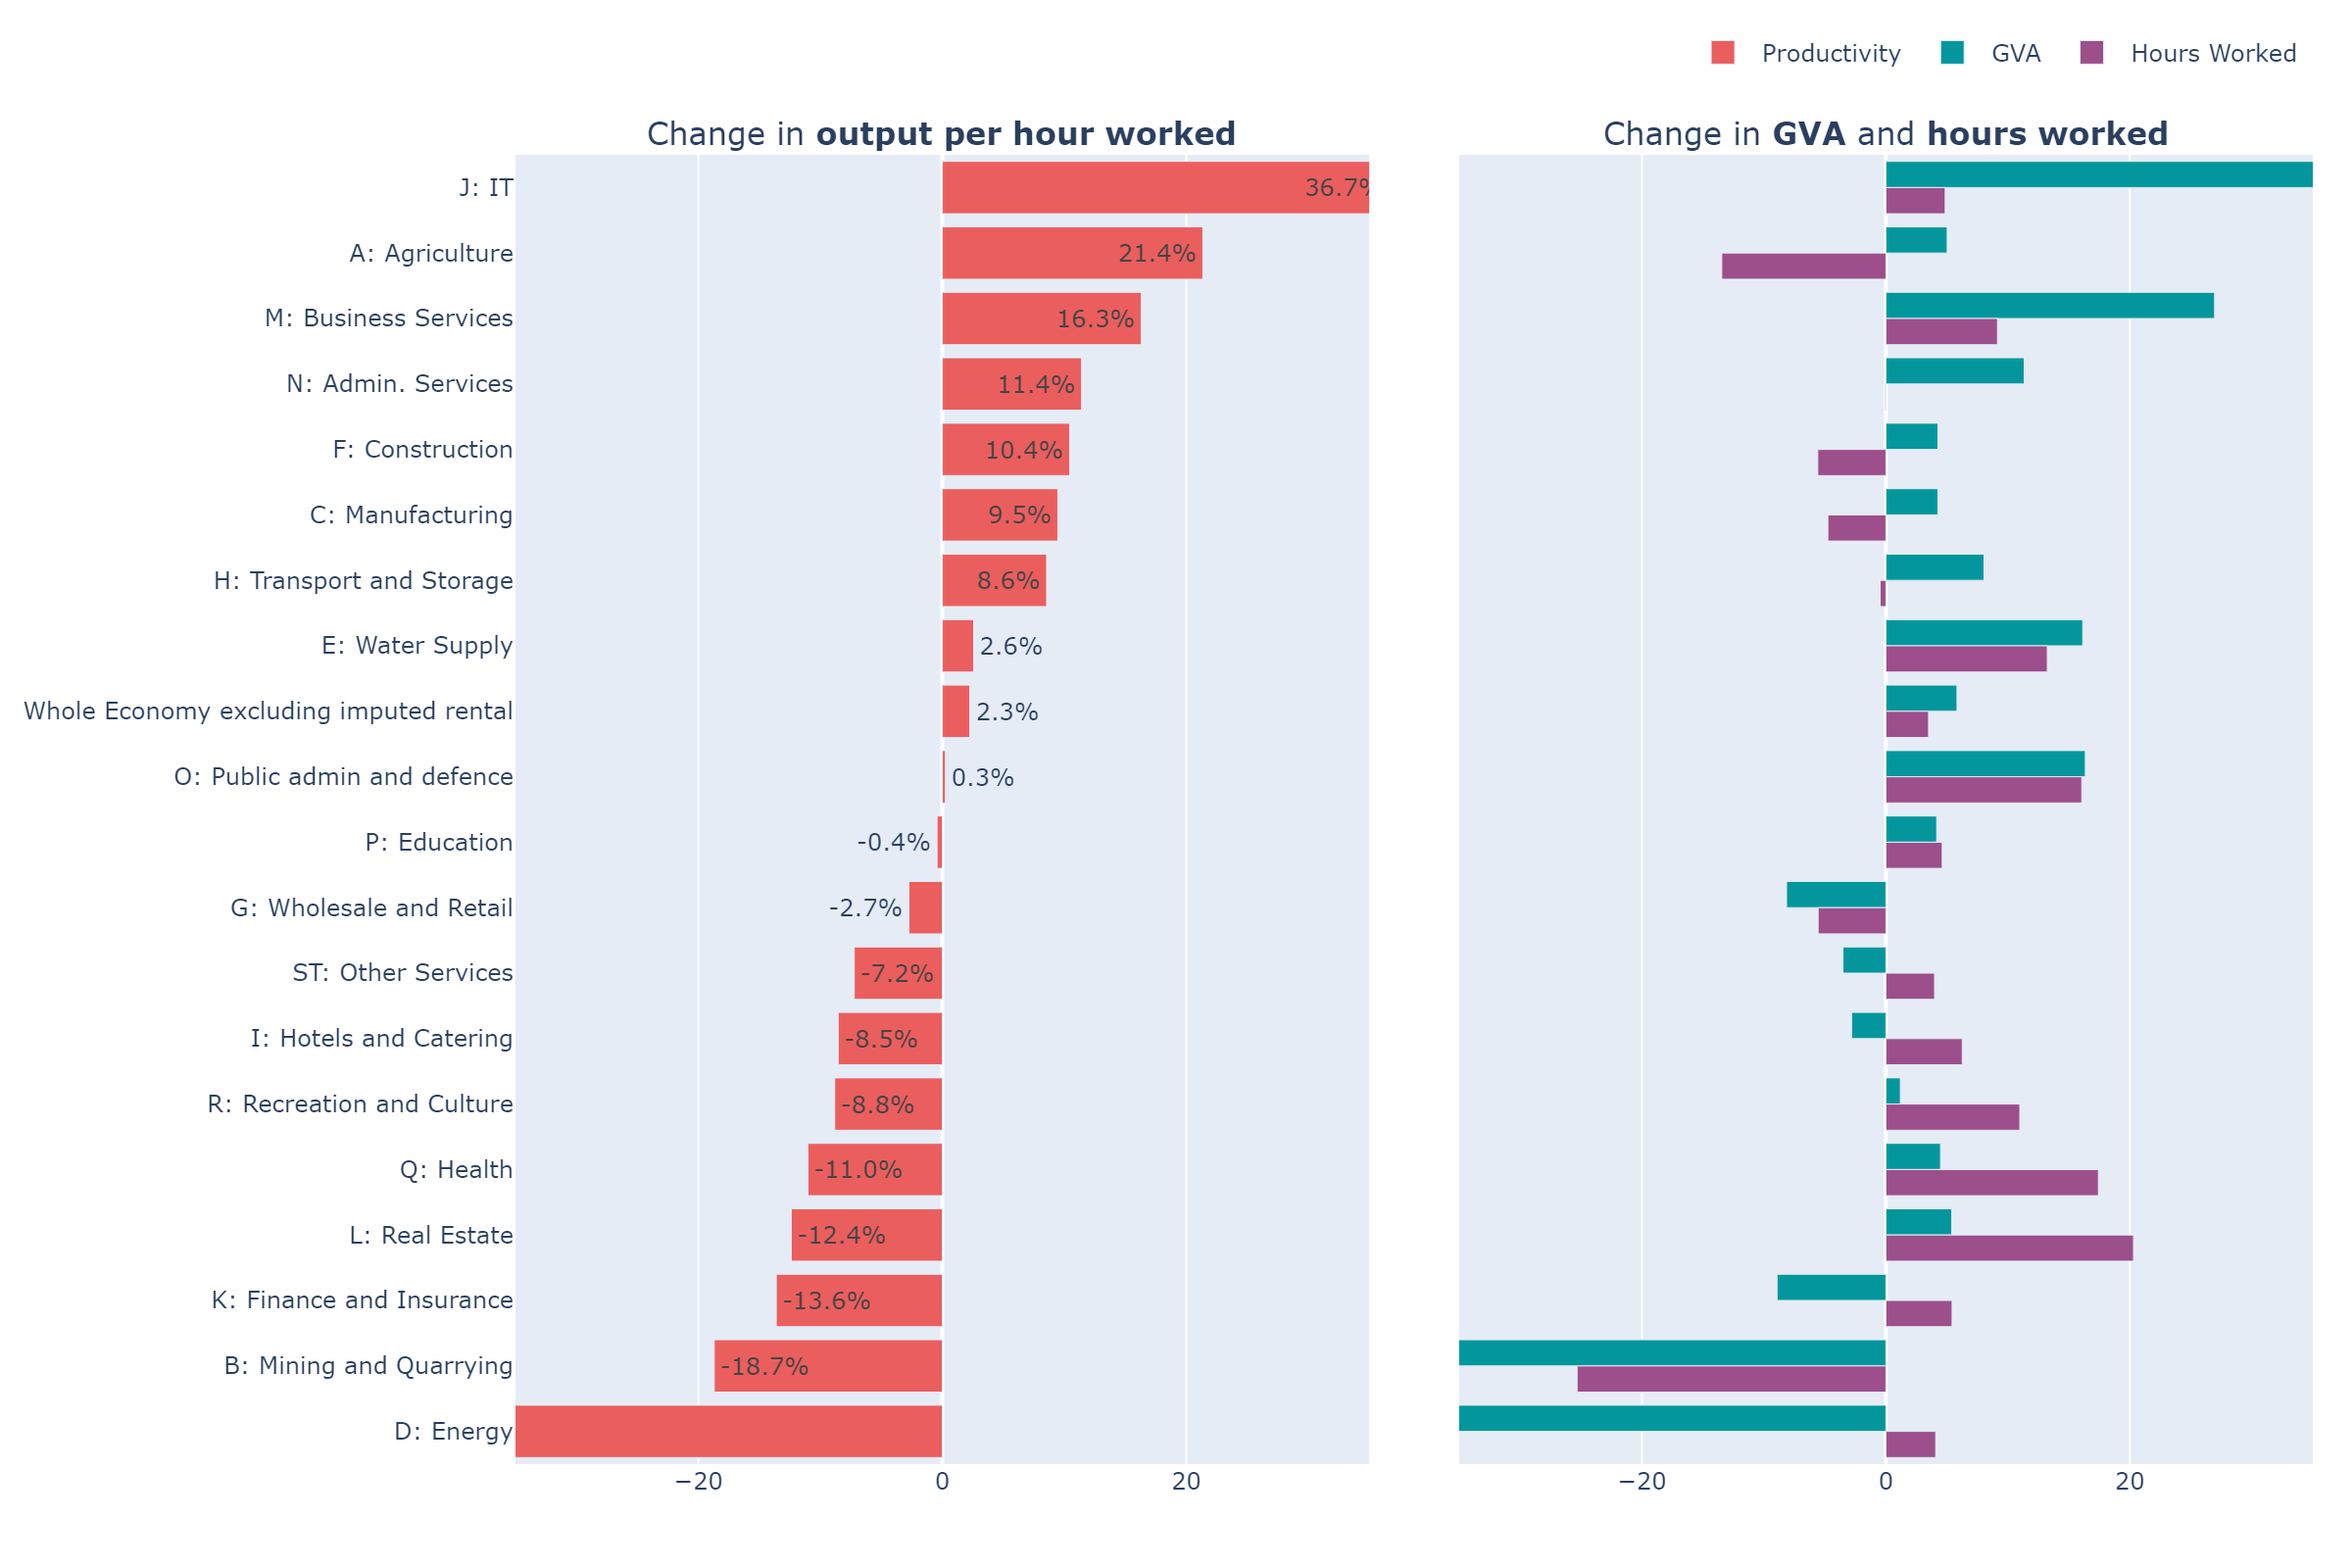
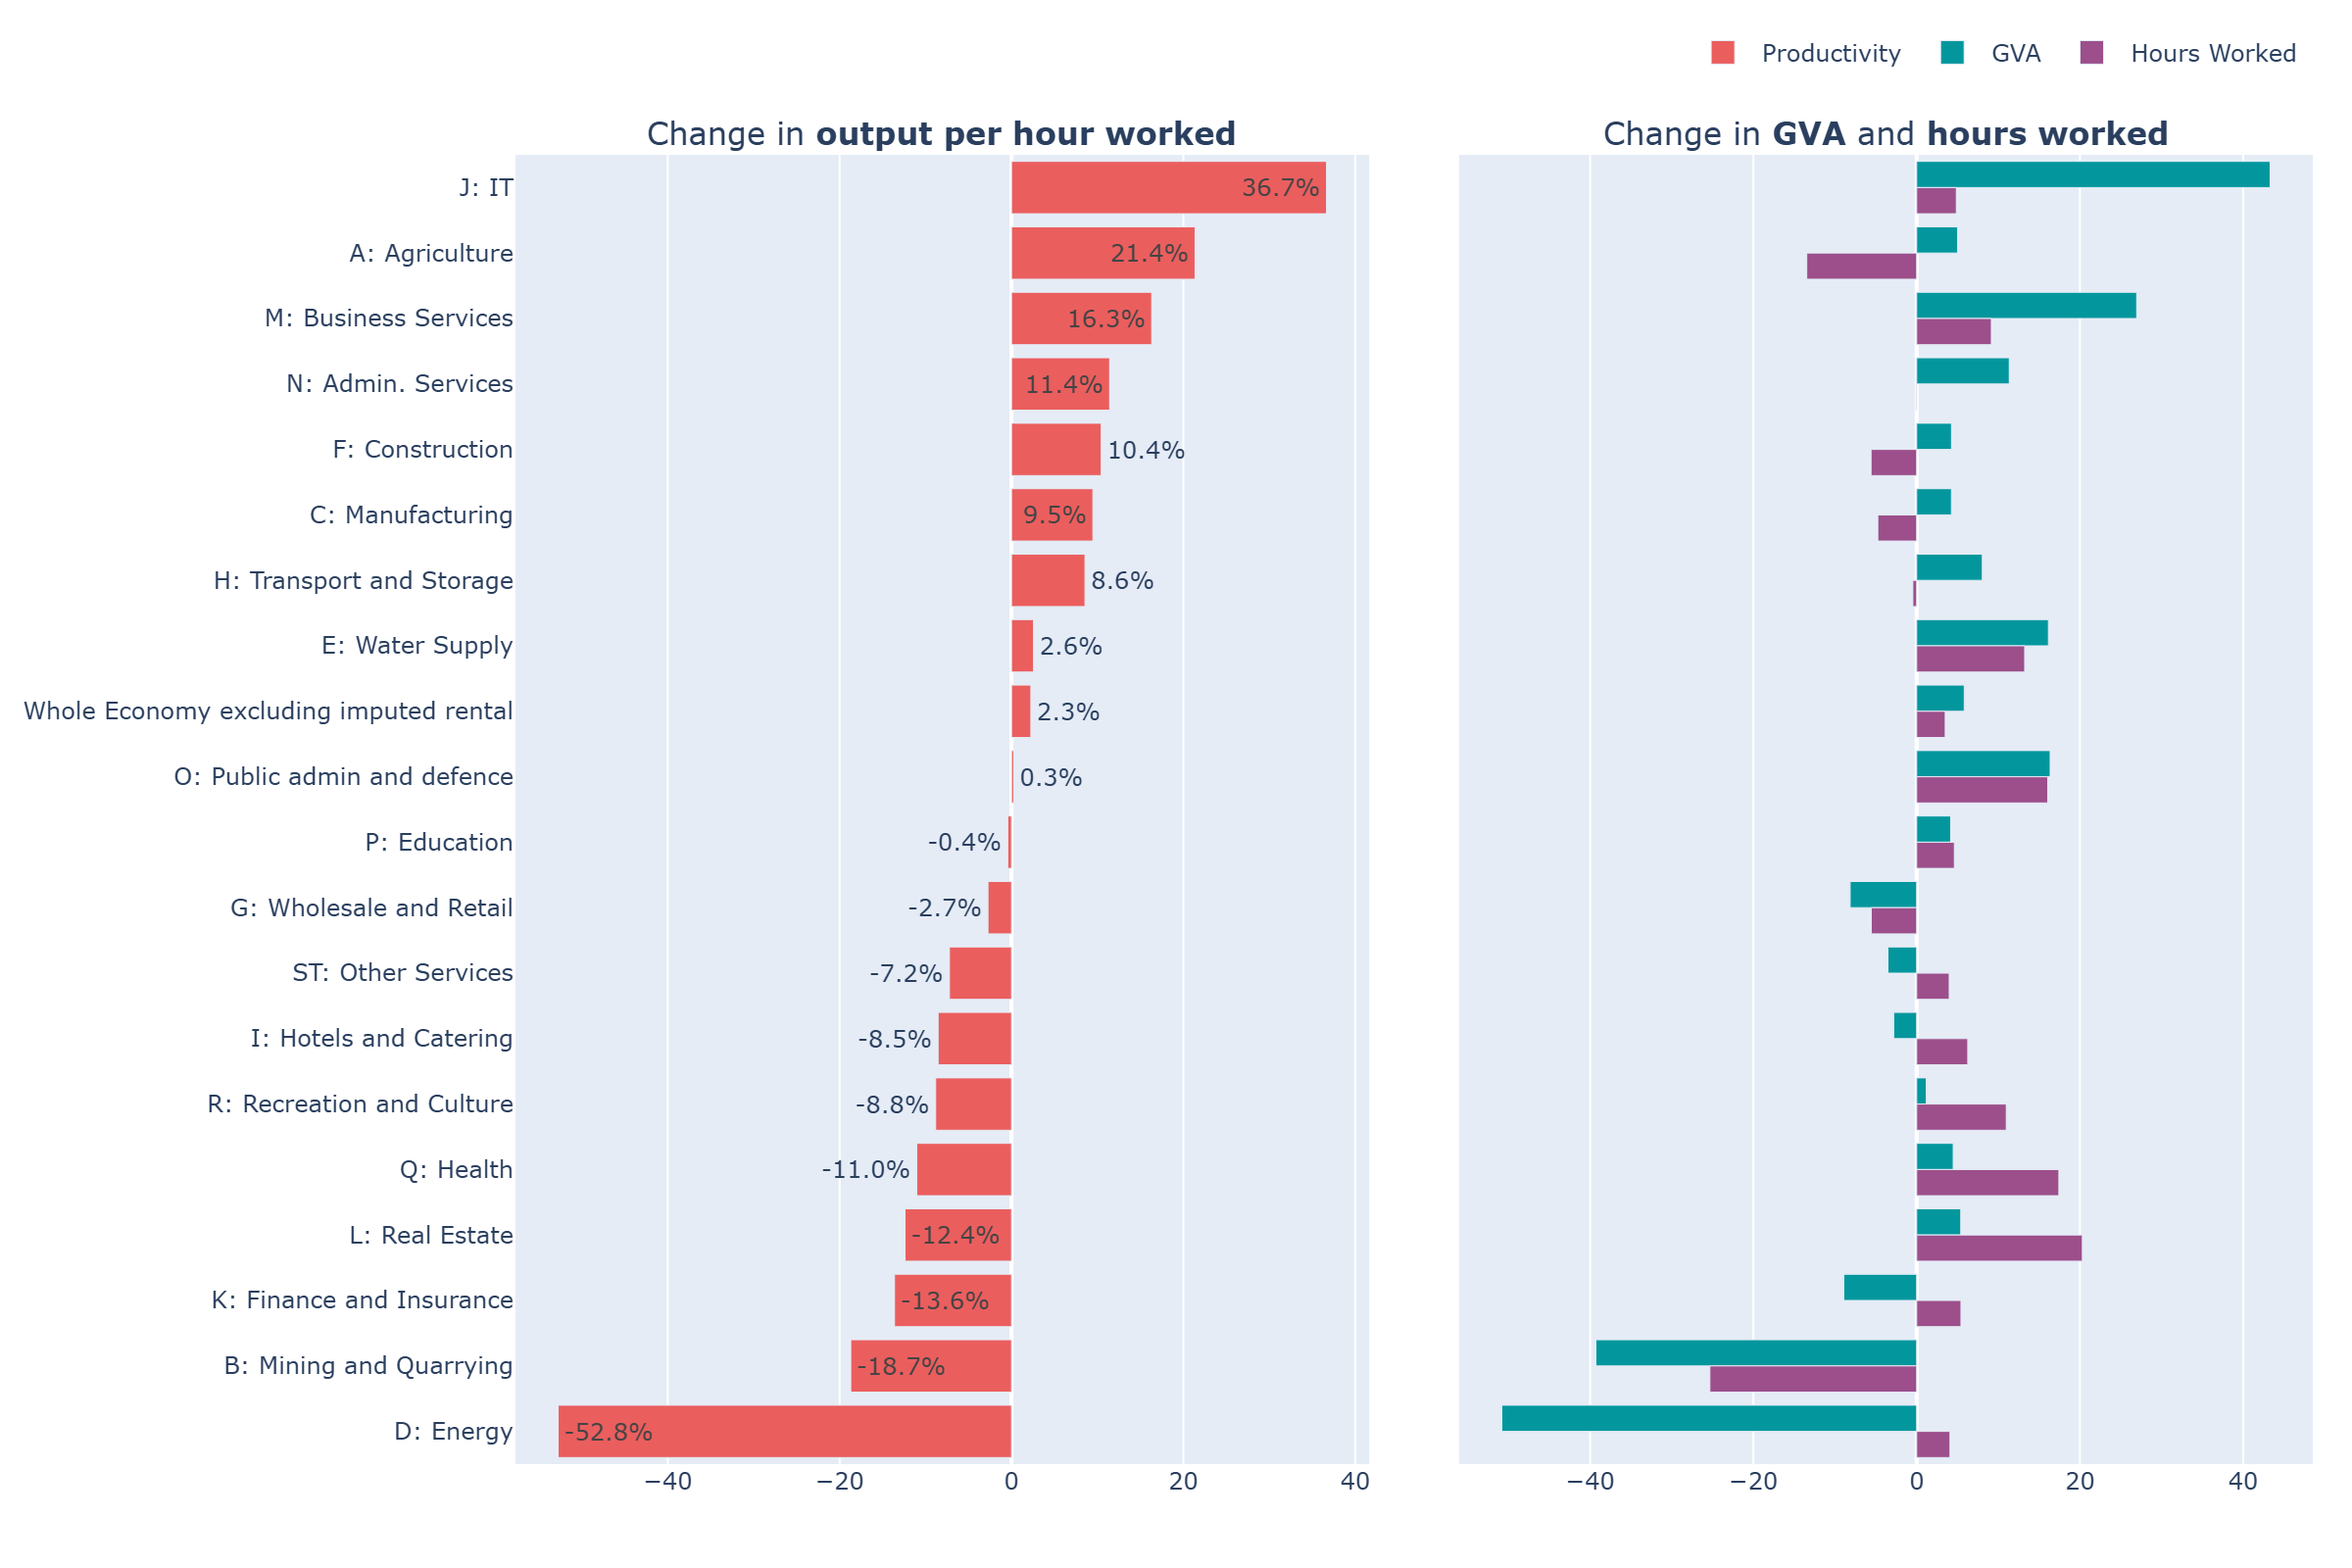
Fixed figure 2 bug

diff --git a/scripts/Flash_Estimate_Processing_20252802.py b/scripts/Flash_Estimate_Processing_20252802.py
@@ -297,8 +297,8 @@ def OPH(data, title):
     )
 
     # Center x-axes at zero
-    fig.update_xaxes(title_text="", range=[-35, 35], row=1, col=1, zeroline=True)
-    fig.update_xaxes(title_text="", range=[-35, 35], row=1, col=2, zeroline=True)
+    fig.update_xaxes(title_text="", zeroline=True, row=1, col=1)
+    fig.update_xaxes(title_text="", zeroline=True, row=1, col=2)
 
     # Reverse y-axis for top-to-bottom sorting (optional)
     fig.update_yaxes(autorange='reversed')
@@ -341,12 +341,12 @@ GDP_data = pd.read_csv('../src/New-release/OECD GDP.csv')
 # Figure 1
 fig = horizontal_bar(OPH_Industries, "")
 fig.write_image("../out/visualisations/Figure 1 - Contribution to OPH by Industry.png", width=1200, height=800, scale=2)
-fig.show()
+#fig.show()
 
 # Figure 2
 fig = OPH(OPH_Breakdown, "")
 fig.write_image("../out/visualisations/Figure 2 - OPH GVA HW.png", width=1200, height=800, scale=2)
-fig.show()
+#fig.show()
 
 # Figure 3
 OPW_Comparison["Quarter"] = OPW_Comparison["Quarter"].str.replace(r"(Q\d) (\d{4})", r"\2 \1", regex=True)
@@ -362,7 +362,7 @@ postCovidOPW['Quarter'] = postCovidOPW['Quarter'].apply(numeric_to_quarter)
 
 fig = double_qoq(preCovidOPW, postCovidOPW, "", "legend", "Output per worker pre-COVID", "Output per worker post-COVID")
 fig.write_image("../out/visualisations/Figure 3 - OPW - LFS vs RTI - double.png", width=1200, height=800, scale=2)
-fig.show()
+#fig.show()
 
 # Figure 4
 OPH_Comparison["Quarter"] = OPH_Comparison["Quarter"].str.replace(r"(Q\d) (\d{4})", r"\2 \1", regex=True)
@@ -378,7 +378,7 @@ postCovidOPH['Quarter'] = postCovidOPH['Quarter'].apply(numeric_to_quarter)
 
 fig = double_qoq(preCovidOPH, postCovidOPH, "", "legend", "Output per hour worked pre-COVID", "Output per hour worked post-COVID")
 fig.write_image("../out/visualisations/Figure 4 - OPH - LFS vs RTI - double.png", width=1200, height=800, scale=2)
-fig.show()
+#fig.show()
 
 # Figure 5 
 Flash_Estimate_OPH["Quarter"] = Flash_Estimate_OPH["Quarter"].str.replace(r"(Q\d) (\d{4})", r"\2 \1", regex=True)
@@ -395,7 +395,7 @@ Flash_Estimate_OPH["Quarter"] = Flash_Estimate_OPH["Quarter"].apply(quarter_to_n
 Flash_Estimate_OPH = Flash_Estimate_OPH[(Flash_Estimate_OPH['Quarter'] >= 2007) & (Flash_Estimate_OPH['Quarter'] <= 2025.25)]
 Flash_Estimate_OPH["Quarter"] = Flash_Estimate_OPH["Quarter"].apply(numeric_to_quarter)
 fig = line_graph(Flash_Estimate_OPH, 2007, "", "", "")
-fig.show()
+#fig.show()
 fig.write_image("../out/visualisations/Figure 5 - 2025 Flash Estimate.png", width=1200, height=800, scale=2)
 
 # Figure 6 and 7 are international comparison - can't be done until all data is released
@@ -408,5 +408,5 @@ fig.write_image("../out/visualisations/Figure 5 - 2025 Flash Estimate.png", widt
 # GDP_data = GDP_data.sort_values(by="Growth", ascending=True).round(1)
 # GDP_data["Sign"] = GDP_data["Growth"].apply(lambda x: "Negative" if x < 0 else "Positive")
 # fig = New_GDP(GDP_data)
-# fig.show()
+# #fig.show()
 # fig.write_image("../out/visualisations/Figure 7 - Q2 G7 GDP.png", width=1200, height=800, scale=2)
